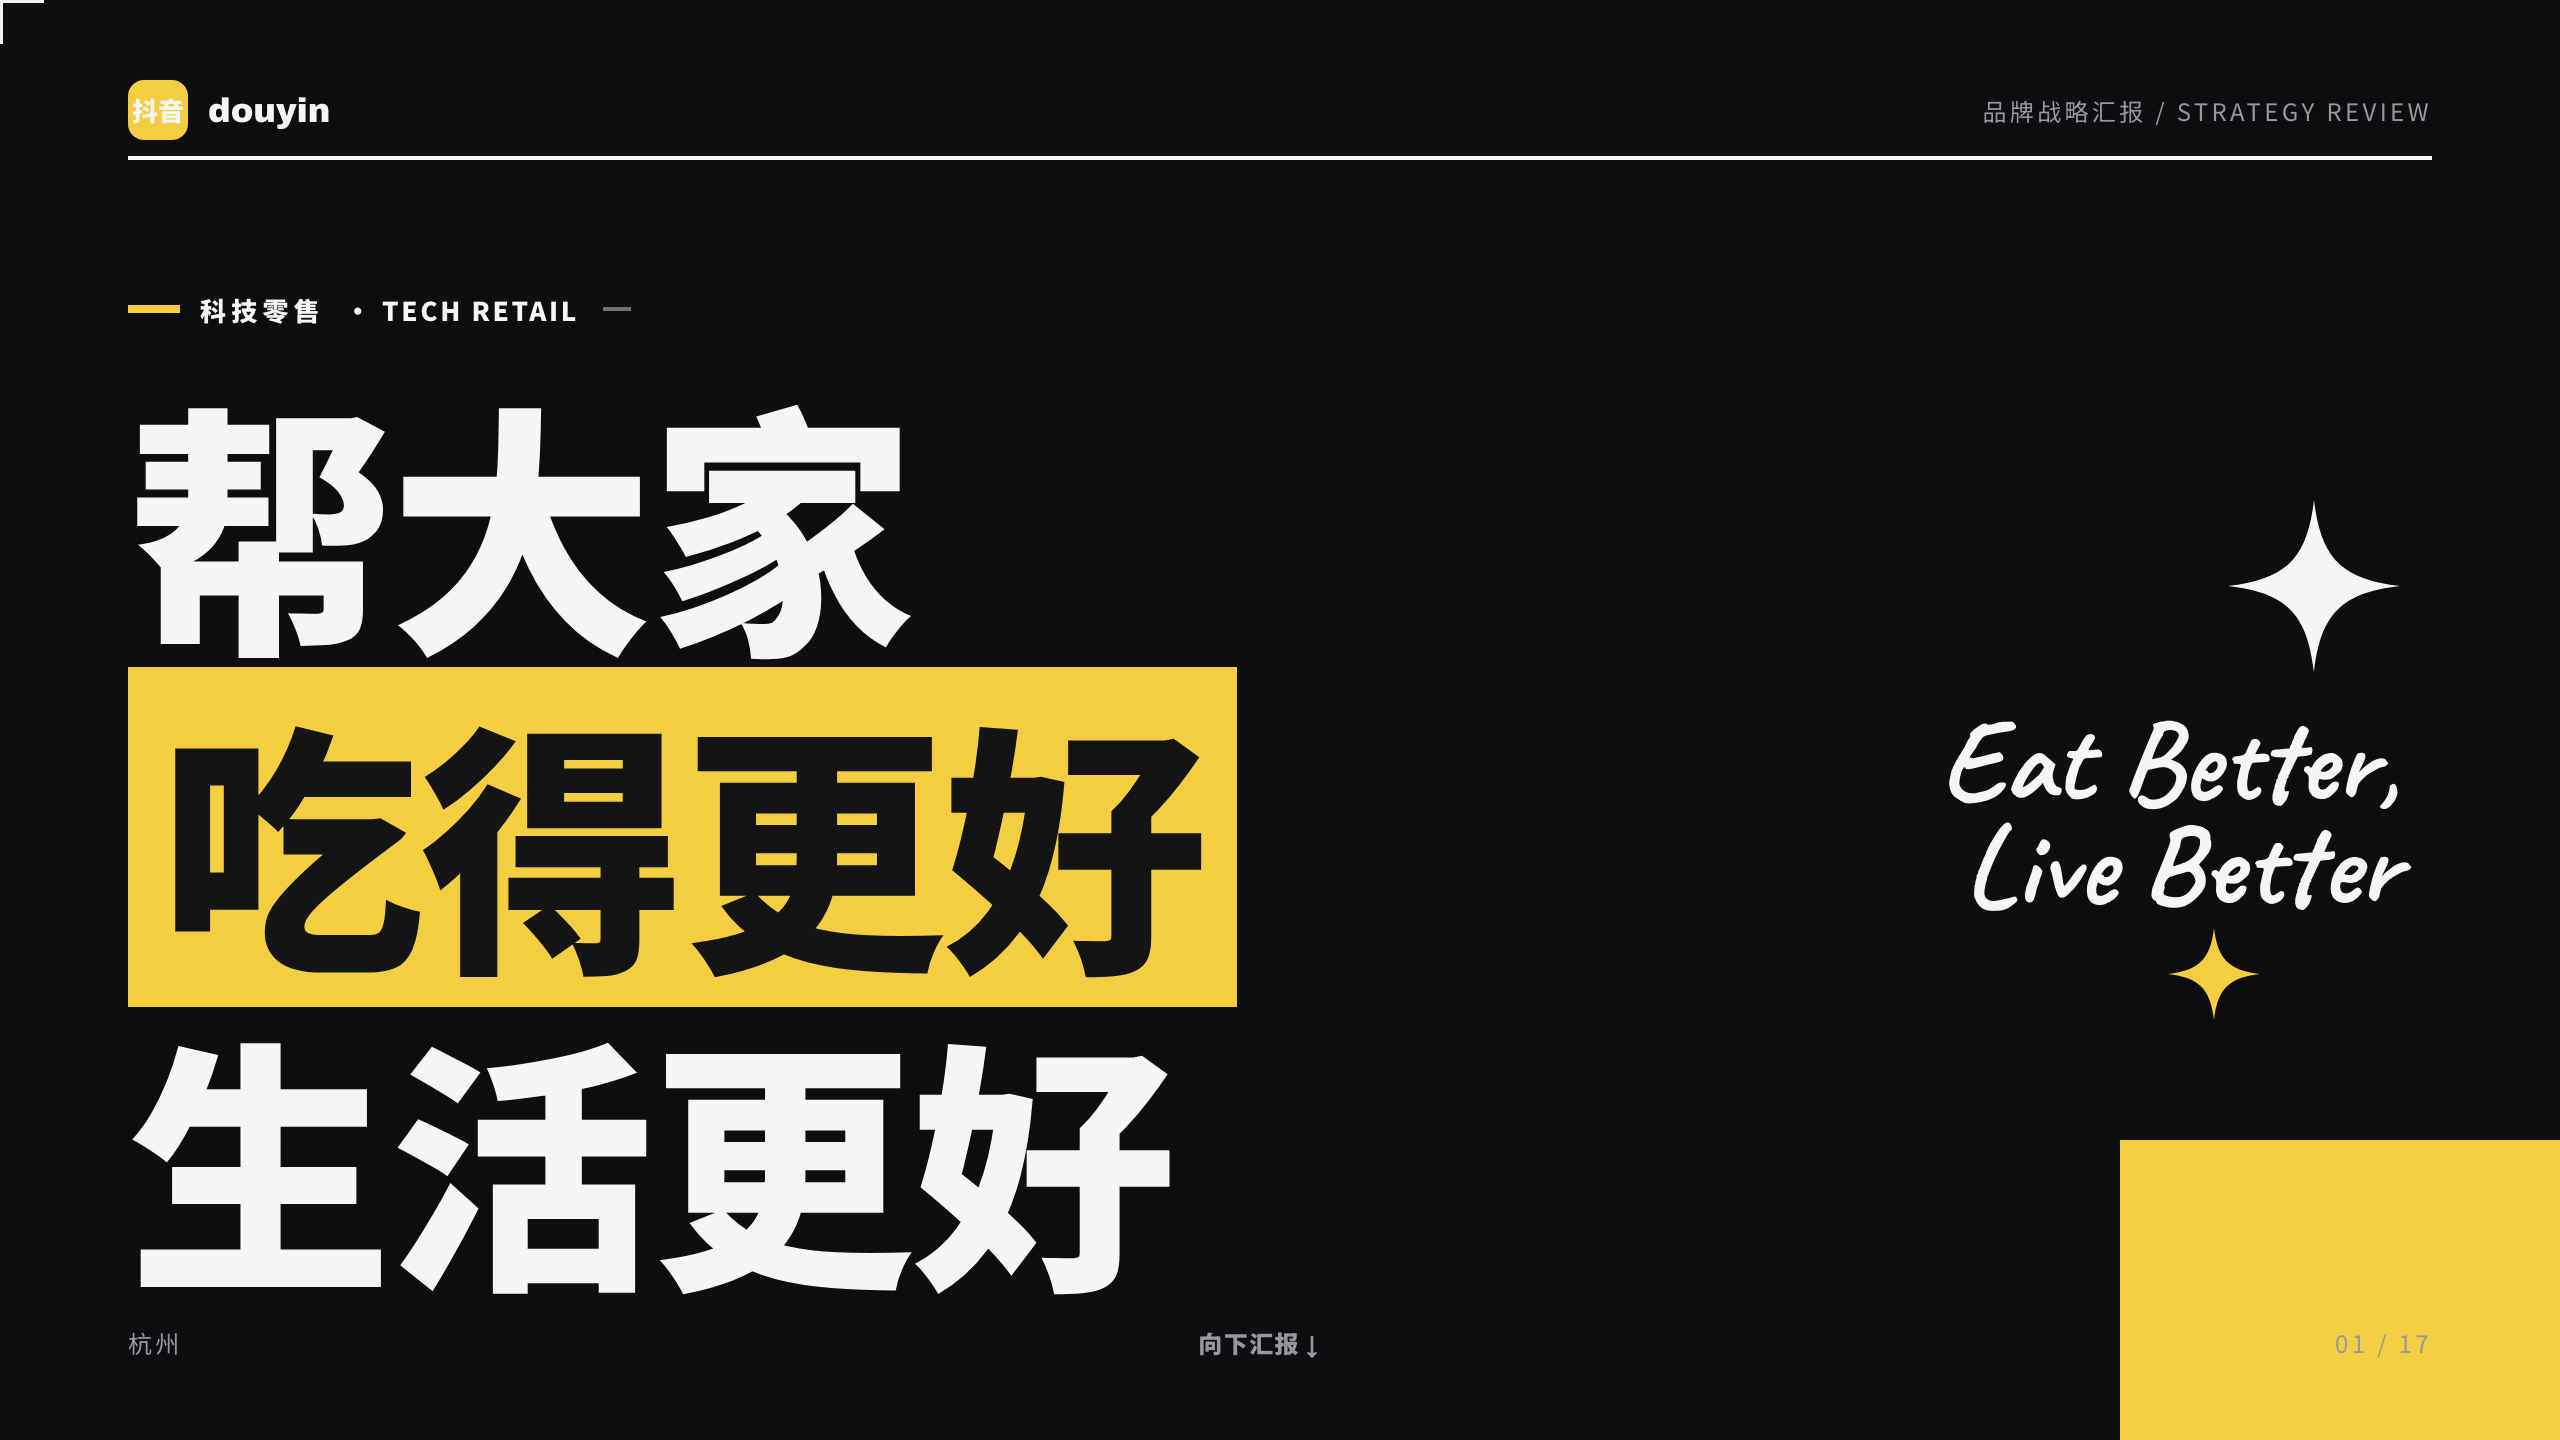
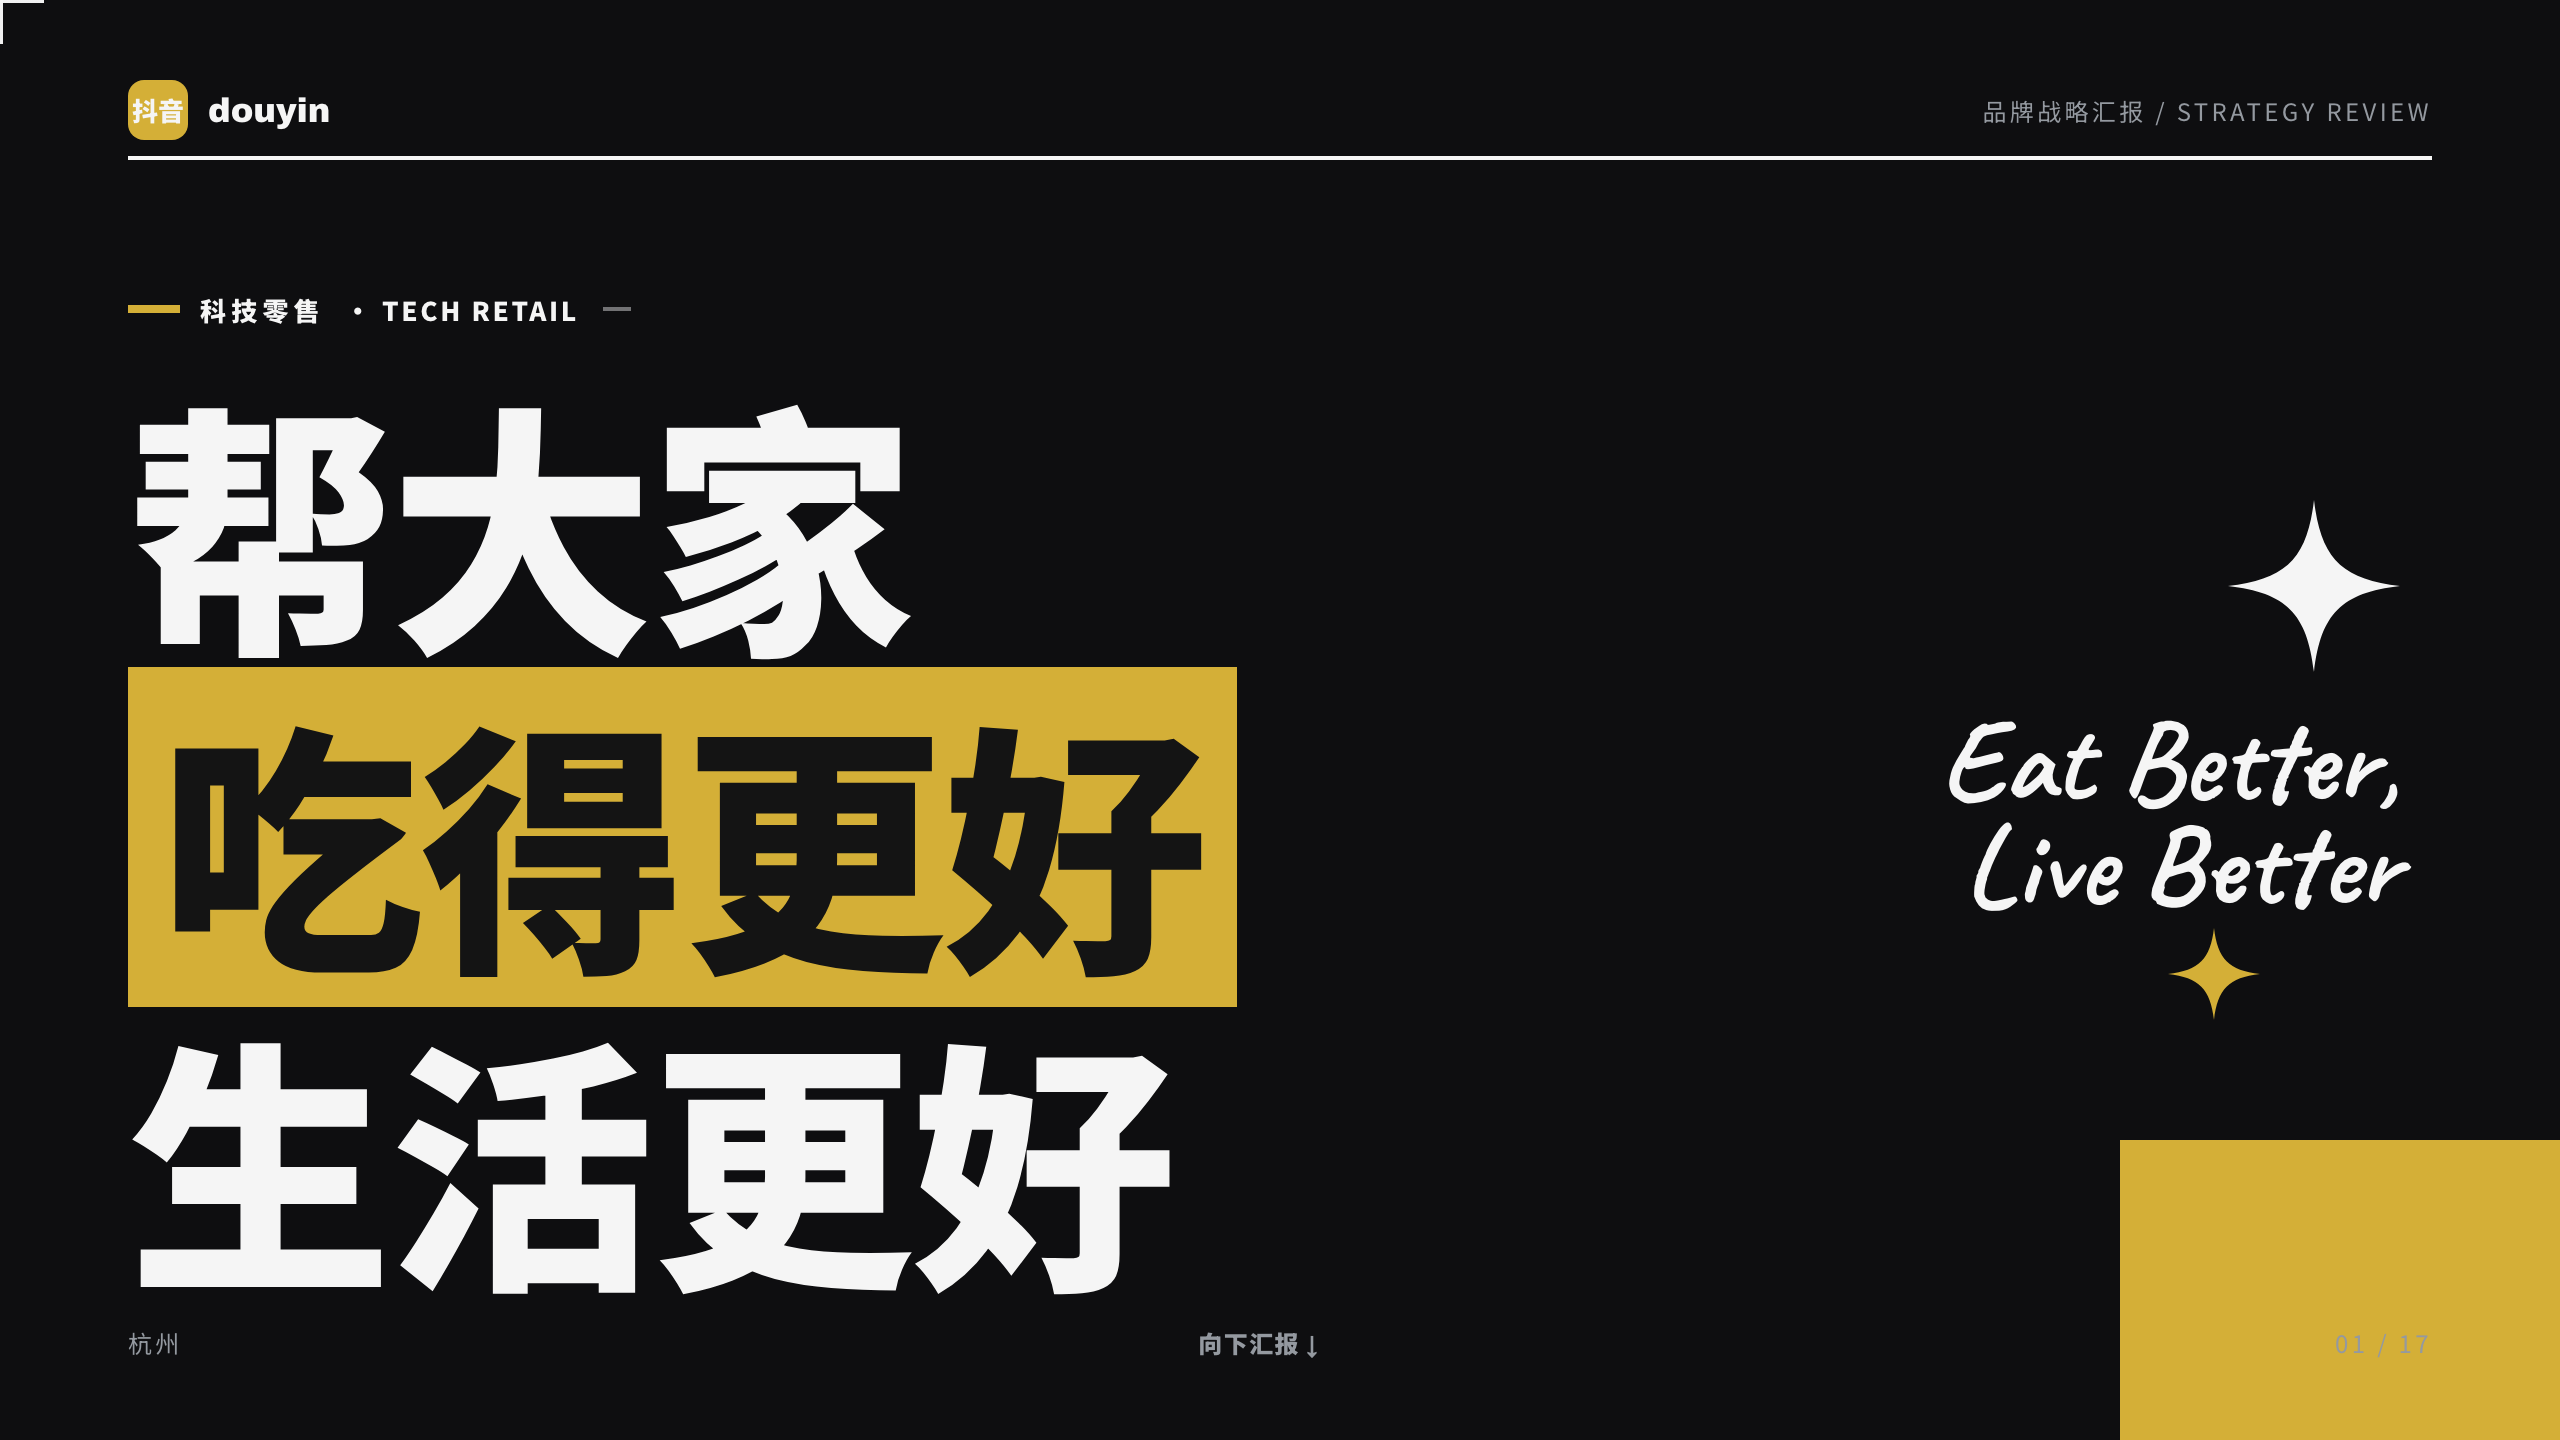
fix: 黑金皮肤换成真正的哑光金属金，而非亮黄
- themes/douyin.css 主色从 #F4CE41（本质是柠檬黄）改成 #D4AF37（经典金属金）
  之前的版本色相太接近美团黄，视觉上只是"黑底+黄字"，没有黑金奢华感
- 重渲染 docs/preview/cover-douyin-dark.png、section-douyin-dark.png
- 新增竖版换肤对比图 docs/preview/skin-compare-meituan-vs-douyin-vertical.png
  （美团黄黑 vs 抖音黑金，上下拼接，同一份文案对比换肤效果）
- README 换肤命令示例同步更新色值

diff --git a/themes/douyin.css b/themes/douyin.css
@@ -6,9 +6,9 @@
 
 :root {
   /* —— 主色系 —— */
-  --brand-primary:      #F4CE41;
-  --brand-primary-deep: #D7B539;
-  --brand-primary-soft: #FDF5D9;
+  --brand-primary:      #D4AF37;
+  --brand-primary-deep: #BB9A30;
+  --brand-primary-soft: #F6EFD7;
   --brand-ink:          #F5F5F5;
   --brand-ink-2:        #CBCBCC;
   --brand-bg:           #0E0E10;
@@ -16,7 +16,7 @@
 
   /* —— 主色底上的文字色 —— */
   --brand-on-primary:   #141414;
-  --brand-on-primary-2: #36301B;
+  --brand-on-primary-2: #312B19;
 
   /* —— 中性灰阶 —— */
   --brand-gray:   #9499A0;
@@ -24,7 +24,7 @@
   --brand-line:   #333335;
 
   /* —— 图表辅助色 —— */
-  --brand-chart-3: #BEA133;
+  --brand-chart-3: #A5882B;
   --brand-chart-4: #4A4B50;
 
   /* —— 字体族 —— */
@@ -35,4 +35,7 @@
   /* —— 品牌文本 —— */
   --brand-logo-cn: "抖音";
   --brand-logo-en: "douyin";
+
+  /* —— 真实 logo 图片（可选）—— */
+  --brand-logo-image: none;
 }

diff --git a/README.md b/README.md
@@ -65,8 +65,8 @@ cp themes/bilibili.css slides/theme.css        # B站粉 / themes/douyin.css 黑
 # 方式二：一条命令生成皮肤（辅助色自动从主色推导）
 python3 scripts/reskin.py --primary "#FB7299" --logo-cn "B站" --logo-en "bilibili"
 
-# 深色皮肤（黑金）+ 顺带替换正文里的旧品牌名
-python3 scripts/reskin.py --primary "#F4CE41" --dark \
+# 深色皮肤（黑金，用哑光金属金而非亮黄，更有奢华感）+ 顺带替换正文里的旧品牌名
+python3 scripts/reskin.py --primary "#D4AF37" --dark \
     --logo-cn "抖音" --logo-en "douyin" --rename "美团=抖音" --rename "MEITUAN=douyin"
 
 # 真实 logo 图片（而非文字方块），base64 直接内嵌进 theme.css